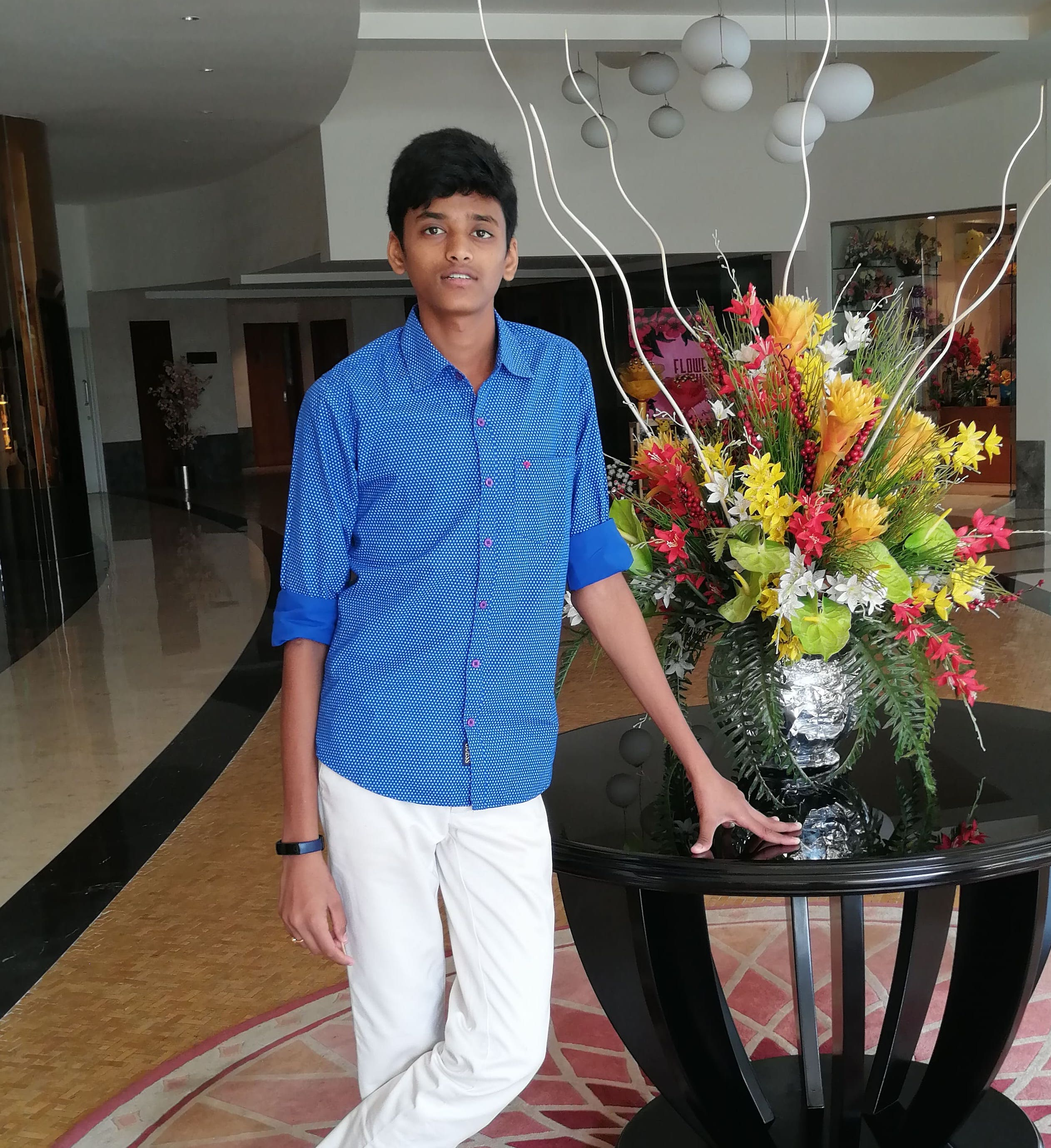
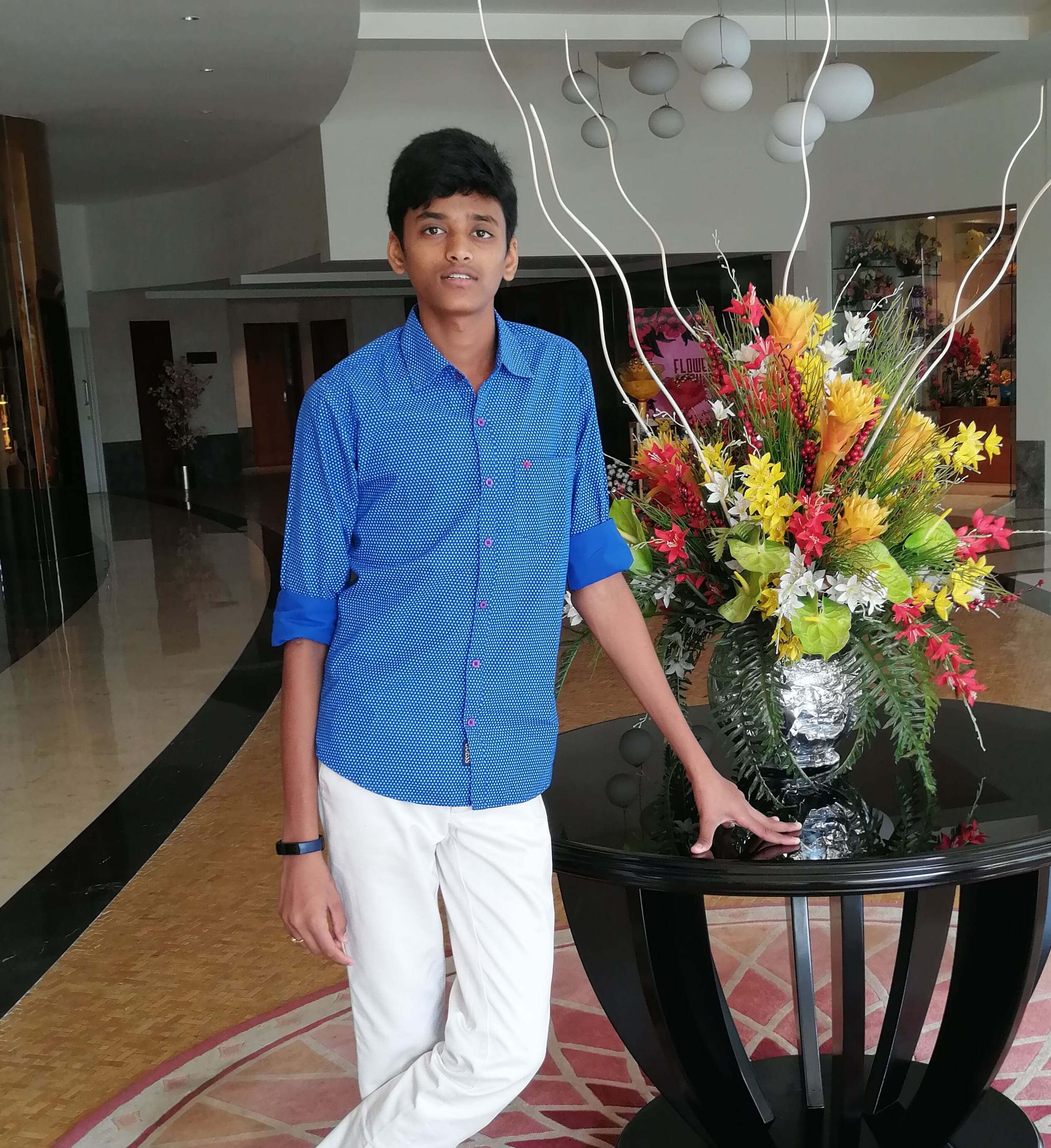
aos animation added, image resized

Changed region(s): [[0.3398, 0.343, 0.556, 0.686]]

diff --git a/src/components/home/landingPage.vue b/src/components/home/landingPage.vue
@@ -1,11 +1,11 @@
 <template>
     <main class="main">
-        <div class="home-text">
+        <div data-aos="zoom-in" data-aos-duration="1000"  class="home-text">
             <h1 class="greet-text">🙏Vanakkam,</h1>
             <h1>I'am <strong>Vikash</strong></h1>
             <p class="design-text">Student / Web Developer</p>
         </div>
-        <div class="wrap">
+        <div data-aos="zoom-in" data-aos-duration="1000" class="wrap">
             <div class="blob" style="">
                 <img src="@/assets/vikash-min.jpeg" alt="vikash-landing page image">
             </div>

diff --git a/src/main.js b/src/main.js
@@ -1,8 +1,11 @@
 import { createApp } from 'vue'
 import App from './App.vue'
 import router from './router'
+// importing AOS
 import AOS from 'aos'
 import 'aos/dist/aos.css'
+
+const app = createApp(App);
 
 app.use(AOS.init());
 

diff --git a/src/components/home/aboutMePage.vue b/src/components/home/aboutMePage.vue
@@ -1,6 +1,6 @@
 <template>
   <main>
-      <h1>AboutMe page Main</h1>
+      <h1 data-aos="zoom-in">AboutMe page Main</h1>
       <span class="page-display">About Me</span>
   </main>
 </template>
